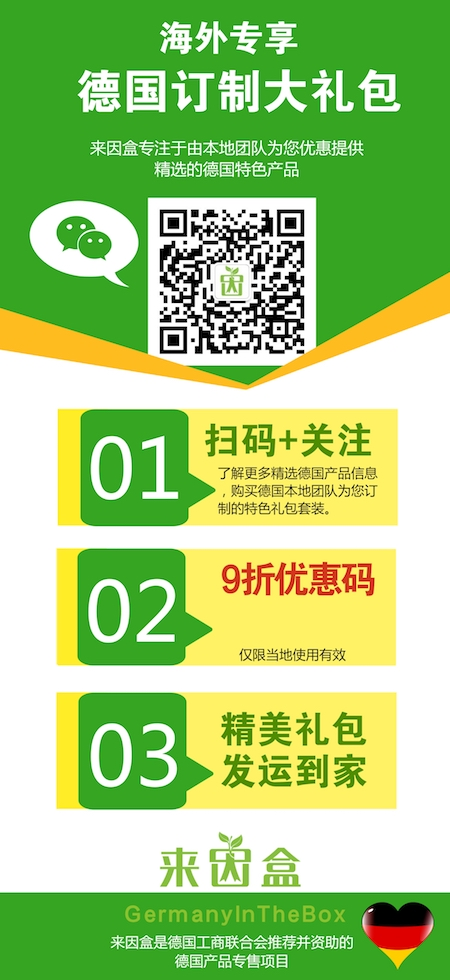
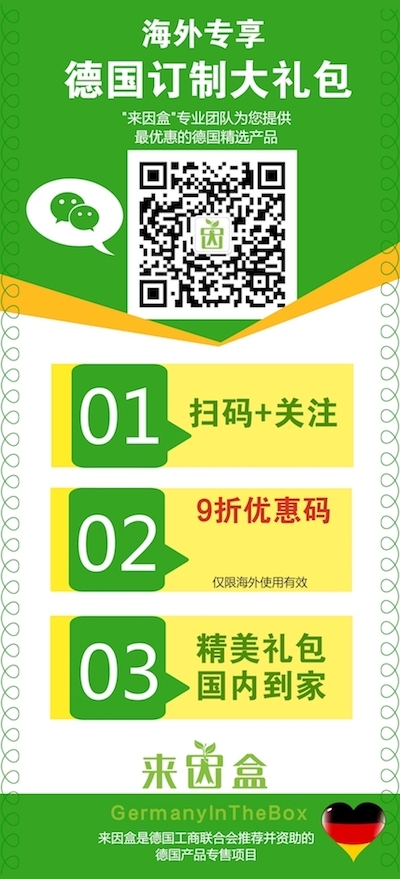
Changed steps image for tourist guides

Changed region(s): [[0.0, 0.0, 1.0, 1.0]]

diff --git a/app/services/flyer.rb b/app/services/flyer.rb
@@ -14,7 +14,7 @@ class Flyer < BaseService
     @image = Magick::ImageList.new("#{Rails.root}/public/images/flyers/steps.jpg")
     text = Magick::Draw.new
 
-    image.annotate(text, 0,0,70,337, coupon.code) {
+    image.annotate(text, 0,0,60,310, coupon.code) {
       text.gravity = Magick::SouthGravity
       text.pointsize = 40
       text.stroke = "#d23b1c"
